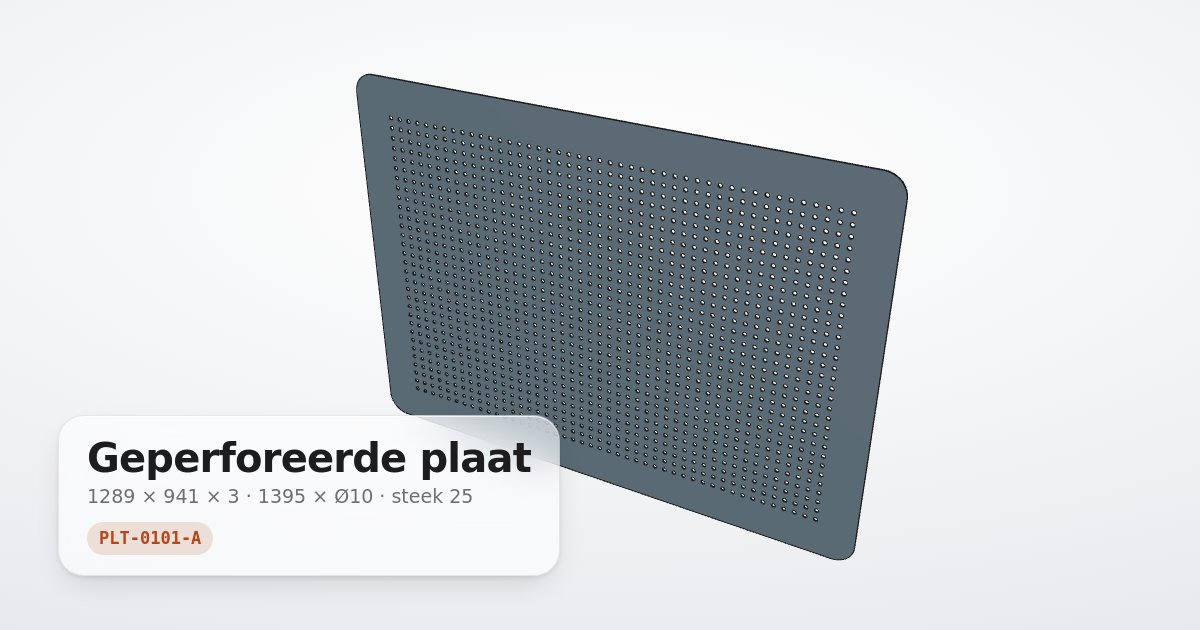
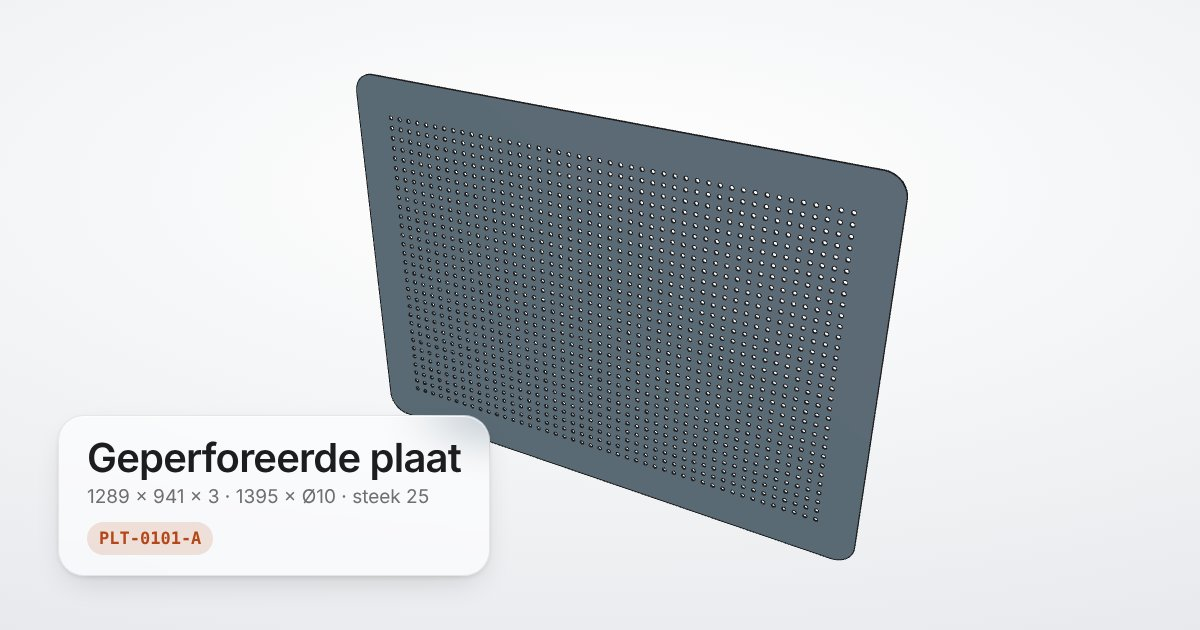
PLT-0101 revisie B (concept): gaten op steek 50
Om het andere gat van revisie A: 23 × 16 = 368 gaten Ø10, zelfde gatenveld
(1100 × 750 hart-hart) en randafstanden 94,5 / 95,5. Beschrijving in het
register algemener gemaakt zodat ze voor beide revisies klopt.

Claude-Session: https://claude.ai/code/session_01XXJD1Dkf3JZyJweGTUJbua

Changed region(s): [[0.0617, 0.6333, 0.4933, 0.8143], [0.4008, 0.9048, 0.4317, 0.9349]]

diff --git a/drawings/PLT-0101/B.html b/drawings/PLT-0101/B.html
@@ -1,0 +1,210 @@
+<!doctype html>
+<html lang="nl">
+<head>
+<meta charset="utf-8">
+<meta name="viewport" content="width=device-width,initial-scale=1,viewport-fit=cover">
+<title>Geperforeerde plaat</title>
+<!-- link-preview -->
+<meta name="description" content="Plaat 1289 × 941 × 3 met hoeken R50 en gaten Ø10 op een vierkant raster, uit Plaat_perforaties_OpenSoon.dxf. Dikte aangenomen. Revisie B van 2026-11-16.">
+<meta property="og:type" content="website">
+<meta property="og:site_name" content="Tekeningenregister">
+<meta property="og:title" content="Geperforeerde plaat · PLT-0101-B">
+<meta property="og:description" content="Plaat 1289 × 941 × 3 met hoeken R50 en gaten Ø10 op een vierkant raster, uit Plaat_perforaties_OpenSoon.dxf. Dikte aangenomen. Revisie B van 2026-11-16.">
+<meta property="og:url" content="https://africabambaata.github.io/prototypes/drawings/PLT-0101/B.html">
+<meta property="og:image" content="https://africabambaata.github.io/prototypes/previews/PLT-0101-B.jpg">
+<meta property="og:image:type" content="image/jpeg">
+<meta property="og:image:width" content="1200">
+<meta property="og:image:height" content="630">
+<meta property="og:image:alt" content="Geperforeerde plaat · PLT-0101-B">
+<meta name="twitter:card" content="summary_large_image">
+<!-- /link-preview -->
+<link rel="stylesheet" href="../../viewer/1/viewer.css">
+</head>
+<body>
+<script src="https://cdnjs.cloudflare.com/ajax/libs/three.js/r128/three.min.js"></script>
+<script src="../../viewer/1/viewer.js"></script>
+<script>
+// Geperforeerde plaat PLT-0101-B (mm), overgenomen uit Plaat_perforaties_OpenSoon.dxf.
+// DXF: buitencontour 1289 × 941 met hoekstraal R50 en 1395 gaten Ø10 (45 × 31) op een vierkant raster
+// met steek 25, symmetrisch in de plaat (randafstand 94,5 links/rechts, 95,5 onder/boven tot het gatmidden).
+// Revisie B: steek 50, dus om het andere gat van de DXF: 23 × 16 = 368 gaten, zelfde gatenveld en randafstanden.
+// De DXF is 2D: de dikte staat er niet in en is hier aangenomen.
+// Plaat in het XY-vlak (vooraanzicht = gatenpatroon), dikte langs Z, oorsprong in het midden.
+const P = { W: 1289, H: 941, R: 50, T: 3, d: 10, pitch: 50, nx: 23, ny: 16 };
+const A = P.W / 2, B = P.H / 2, t = P.T / 2, r = P.d / 2, h = P.pitch / 2;
+const FX = P.nx * h, FY = P.ny * h;                          // half-maten van het geperforeerde veld (cellen van 25 × 25)
+const cx = i => (i - (P.nx - 1) / 2) * P.pitch;              // gatmiddens
+const cy = j => (j - (P.ny - 1) / 2) * P.pitch;
+const X0 = cx(0), Y0 = cy(0);                                // gat linksonder
+const nHoles = P.nx * P.ny;
+const fmt = v => String(v).replace('.', ',');
+
+DrawingViewer.create({
+  lang: 'nl',
+  title: 'Geperforeerde plaat',
+  subtitle: `${P.W} × ${P.H} × ${P.T} · ${nHoles} × Ø${P.d} · steek ${P.pitch}`,
+  number: 'PLT-0101-B',
+  register: { url: '../../drawings.json', number: 'PLT-0101', rev: 'B' },
+  modes: ['solid', 'section', 'xray'],
+  views: [
+    { id: 'iso', theta: 0.5, phi: 1.05 },
+    { id: 'front', theta: 0, phi: Math.PI / 2 },
+    { id: 'top', theta: 0, phi: 0.0001 },
+    { id: 'right', theta: Math.PI / 2, phi: Math.PI / 2 },
+    { id: 'detail', label: 'Detail', tag: 'Detail hoek linksonder', theta: 0, phi: Math.PI / 2, radius: 450, target: [-580, -420, 0] }
+  ],
+  camera: { radius: 2500, target: [0, 0, 0], min: 25, max: 5000 },
+  titleBlock: [
+    { k: 'Titel', v: 'Geperforeerde plaat', title: true },
+    { k: 'Tekeningnr.', v: 'PLT-0101-B' },
+    { k: 'Afmetingen', v: `${P.W} × ${P.H} × ${P.T} · hoeken R${P.R}` },
+    { k: 'Perforatie', v: `${nHoles} × Ø${P.d} (${P.nx} × ${P.ny}) · vierkant raster, steek ${P.pitch} · ±${fmt((Math.PI * r * r / (P.pitch * P.pitch) * 100).toFixed(1))} % open` },
+    { k: 'Dikte', v: `${P.T} mm aangenomen: niet opgegeven in de DXF` },
+    { k: 'Materiaal', v: 'Niet opgegeven' },
+    { k: 'Eenheden · Schaal', v: 'mm · 1:10', units: 'mm', scale: true },
+    { k: 'Bron', v: 'Plaat_perforaties_OpenSoon.dxf' },
+    { k: 'Projectie', v: 'Eerste hoek', projection: true },
+    { k: 'Getekend · Blad', v: '2026-11-16 · 1/1' }
+  ],
+  build(m) {
+    const { THREE, V } = m;
+    m.part(plate(THREE), { edges: 25 });
+
+    // Halve doorsnede op x = 0, door een kolom gaten: de stegen tussen de gaten gearceerd.
+    const hatch = [];
+    const ys = [-B];
+    for (let j = 0; j < P.ny; j++) ys.push(cy(j) - r, cy(j) + r);
+    ys.push(B);
+    for (let k = 0; k < ys.length; k += 2) hatch.push(...m.hatchYZ(0, ys[k], ys[k + 1], -t, t, 1.2));
+    m.section({ plane: new THREE.Plane(V(-1, 0, 0), 0), hatch });
+
+    const z = t + 0.2, c45 = Math.SQRT1_2;
+    // Overzicht: buitenmaten, hart-hart van het gatenveld en de hoekstraal.
+    const all = m.dims({ arrow: 22, minRadius: 900 });
+    all.linear({ a: V(-A, -B - 90, z), b: V(A, -B - 90, z), text: String(P.W),
+      ext: [[V(-A, -B + P.R, z), V(-A, -B - 105, z)], [V(A, -B + P.R, z), V(A, -B - 105, z)]] });
+    all.linear({ a: V(-A - 90, -B, z), b: V(-A - 90, B, z), text: String(P.H),
+      ext: [[V(-A + P.R, -B, z), V(-A - 105, -B, z)], [V(-A + P.R, B, z), V(-A - 105, B, z)]] });
+    all.linear({ a: V(X0, B + 70, z), b: V(-X0, B + 70, z), text: `${-2 * X0} (${P.nx - 1} × ${P.pitch})`,
+      ext: [[V(X0, -Y0 + r, z), V(X0, B + 85, z)], [V(-X0, -Y0 + r, z), V(-X0, B + 85, z)]] });
+    all.linear({ a: V(A + 70, Y0, z), b: V(A + 70, -Y0, z), text: `${-2 * Y0} (${P.ny - 1} × ${P.pitch})`,
+      ext: [[V(-X0 + r, Y0, z), V(A + 85, Y0, z)], [V(-X0 + r, -Y0, z), V(A + 85, -Y0, z)]] });
+    const ca = V(A - P.R, B - P.R, z);
+    all.leader({ p: ca.clone().add(V(P.R * c45, P.R * c45, 0)), e: ca.clone().add(V(P.R * c45 + 150, P.R * c45 + 40, 0)), arrow: 18, text: `R${P.R} (4×)` });
+    all.note({ pos: V(0, -B - 190, z), text: `${nHoles} × Ø${P.d} · steek ${P.pitch}` });
+
+    // Detail (ingezoomd, hoek linksonder): randafstanden, steek, gatdiameter en dikte.
+    const det = m.dims({ arrow: 3, maxRadius: 900 });
+    const yd = -B - 22, xd = -A - 22;
+    det.linear({ a: V(-A, yd, z), b: V(X0, yd, z), text: fmt(X0 + A),
+      ext: [[V(-A, -B + P.R, z), V(-A, yd - 4, z)], [V(X0, Y0 - r, z), V(X0, yd - 4, z)]] });
+    det.linear({ a: V(X0, yd, z), b: V(X0 + P.pitch, yd, z), text: String(P.pitch),
+      ext: [[V(X0 + P.pitch, Y0 - r, z), V(X0 + P.pitch, yd - 4, z)]] });
+    det.linear({ a: V(xd, -B, z), b: V(xd, Y0, z), text: fmt(Y0 + B),
+      ext: [[V(-A + P.R, -B, z), V(xd - 4, -B, z)], [V(X0 - r, Y0, z), V(xd - 4, Y0, z)]] });
+    det.linear({ a: V(xd, Y0, z), b: V(xd, Y0 + P.pitch, z), text: String(P.pitch),
+      ext: [[V(X0 - r, Y0 + P.pitch, z), V(xd - 4, Y0 + P.pitch, z)]] });
+    const hx = X0 + 2 * P.pitch;
+    det.leader({ p: V(hx + r * c45, Y0 - r * c45, z), e: V(hx + 30, Y0 - 45, z), text: `Ø${P.d} (${nHoles}×)` });
+    const yt = Y0 + 4 * P.pitch + h;                         // tussen twee gatenrijen, op de linkerrand
+    det.linear({ a: V(-A - 12, yt, -t), b: V(-A - 12, yt, t), n: V(0, 1, 0), text: String(P.T),
+      ext: [[V(-A, yt, -t), V(-A - 15, yt, -t)], [V(-A, yt, t), V(-A - 15, yt, t)]] });
+    // Hartlijnen door de eerste rij en kolom gaten.
+    det.segments([V(X0, Y0 - 9, z), V(X0, Y0 + 9, z), V(X0 - 9, Y0, z), V(X0 + 9, Y0, z),
+      V(X0 + P.pitch, Y0 - 9, z), V(X0 + P.pitch, Y0 + 9, z), V(X0 - 9, Y0 + P.pitch, z), V(X0 + 9, Y0 + P.pitch, z)]);
+  }
+});
+
+// De plaat als één BufferGeometry, zonder driehoeksberekening met 1395 gaten in één vorm (te traag):
+// - het gatenveld bestaat uit cellen van 25 × 25, elk een vierkant met een rond gat (24 segmenten). Het vierkant
+//   heeft punten op dezelfde hoeken als de cirkel, dus elk stukje tussen gat en rand is een vlakke vierhoek;
+// - de rand rond het veld (82 à 83 mm) sluit punt voor punt aan op de cellen (geen T-knopen, dus geen losse
+//   randlijnen), met een waaier naar elke afgeronde hoek;
+// - daarbij de buitenwand en de gatwanden.
+function plate(THREE) {
+  const SEG = 24, ARC = 12;
+  const pos = [], nor = [];
+  const snap = v => Math.round(v * 1e9) / 1e9;
+  const put = (x, y, zz, nx, ny, nz) => { pos.push(x, y, zz); nor.push(nx, ny, nz); };
+  // Vlakke driehoek (a, b, c tegen de klok in van boven gezien) op boven- en ondervlak.
+  const faceTri = (a, b, c) => {
+    put(a[0], a[1], t, 0, 0, 1); put(b[0], b[1], t, 0, 0, 1); put(c[0], c[1], t, 0, 0, 1);
+    put(a[0], a[1], -t, 0, 0, -1); put(c[0], c[1], -t, 0, 0, -1); put(b[0], b[1], -t, 0, 0, -1);
+  };
+  const faceQuad = (a, b, c, d) => { faceTri(a, b, c); faceTri(a, c, d); };
+
+  const dir = [], sq = [];
+  for (let k = 0; k <= SEG; k++) {
+    const a = k / SEG * Math.PI * 2, c = Math.cos(a), s = Math.sin(a), q = Math.max(Math.abs(c), Math.abs(s));
+    dir.push([c, s]); sq.push([snap(c / q), snap(s / q)]);
+  }
+  for (let i = 0; i < P.nx; i++) for (let j = 0; j < P.ny; j++) {
+    const x = cx(i), y = cy(j);
+    for (let k = 0; k < SEG; k++) {
+      const i0 = [x + r * dir[k][0], y + r * dir[k][1]], i1 = [x + r * dir[k + 1][0], y + r * dir[k + 1][1]];
+      const o0 = [x + h * sq[k][0], y + h * sq[k][1]], o1 = [x + h * sq[k + 1][0], y + h * sq[k + 1][1]];
+      faceQuad(i0, o0, o1, i1);
+      // Gatwand, normaal naar het gatmidden
+      const [c0, s0] = dir[k], [c1, s1] = dir[k + 1];
+      put(i0[0], i0[1], -t, -c0, -s0, 0); put(i0[0], i0[1], t, -c0, -s0, 0); put(i1[0], i1[1], t, -c1, -s1, 0);
+      put(i0[0], i0[1], -t, -c0, -s0, 0); put(i1[0], i1[1], t, -c1, -s1, 0); put(i1[0], i1[1], -t, -c1, -s1, 0);
+    }
+  }
+
+  // Punten van het veld langs de rand: dezelfde waarden als in de cellen.
+  const uniq = vals => [...new Map(vals.map(v => [v.toFixed(6), v])).values()].sort((p, q) => p - q);
+  const side = [];
+  for (let k = 0; k <= SEG; k++) if (Math.abs(sq[k][1] + 1) < 1e-9) side.push(sq[k][0]);  // onderkant van een cel
+  const XS = uniq([].concat(...Array.from({ length: P.nx }, (_, i) => side.map(o => cx(i) + h * o))));
+  const YS = uniq([].concat(...Array.from({ length: P.ny }, (_, j) => side.map(o => cy(j) + h * o))));
+
+  // Afgeronde hoek: keten van buitenpunten van de projectie op de onder-/bovenrand tot die op de zijrand,
+  // tegen de klok in rond de plaat, plus de waaier vanuit de veldhoek.
+  const corner = (sx, sy) => {
+    const ch = [[sx * FX, sy * B], [sx * (A - P.R), sy * B]];
+    const a0 = sy < 0 ? -Math.PI / 2 : Math.PI / 2, a1 = sx > 0 ? 0 : Math.PI;
+    const d = Math.atan2(Math.sin(a1 - a0), Math.cos(a1 - a0));
+    for (let k = 1; k < ARC; k++) {
+      const a = a0 + d * k / ARC;
+      ch.push([sx * (A - P.R) + P.R * Math.cos(a), sy * (B - P.R) + P.R * Math.sin(a)]);
+    }
+    ch.push([sx * A, sy * (B - P.R)], [sx * A, sy * FY]);
+    const p = [sx * FX, sy * FY], f = ch[0], l = ch[ch.length - 1];
+    if ((f[0] - p[0]) * (l[1] - p[1]) - (f[1] - p[1]) * (l[0] - p[0]) < 0) ch.reverse();
+    for (let k = 0; k + 1 < ch.length; k++) faceTri(p, ch[k], ch[k + 1]);
+    return ch;
+  };
+  for (let m = 0; m + 1 < XS.length; m++) {
+    const x0 = XS[m], x1 = XS[m + 1];
+    faceQuad([x0, -B], [x1, -B], [x1, -FY], [x0, -FY]);
+    faceQuad([x1, B], [x0, B], [x0, FY], [x1, FY]);
+  }
+  for (let m = 0; m + 1 < YS.length; m++) {
+    const y0 = YS[m], y1 = YS[m + 1];
+    faceQuad([A, y0], [A, y1], [FX, y1], [FX, y0]);
+    faceQuad([-A, y1], [-A, y0], [-FX, y0], [-FX, y1]);
+  }
+  const BR = corner(1, -1), TR = corner(1, 1), TL = corner(-1, 1), BL = corner(-1, -1);
+
+  // Buitencontour tegen de klok in, met precies dezelfde punten als het bovenvlak, en de buitenwand.
+  const loop = [
+    ...XS.map(x => [x, -B]), ...BR.slice(1, -1),
+    ...YS.map(y => [A, y]), ...TR.slice(1, -1),
+    ...XS.slice().reverse().map(x => [x, B]), ...TL.slice(1, -1),
+    ...YS.slice().reverse().map(y => [-A, y]), ...BL.slice(1, -1)
+  ];
+  for (let k = 0; k < loop.length; k++) {
+    const a = loop[k], b = loop[(k + 1) % loop.length];
+    const dx = b[0] - a[0], dy = b[1] - a[1], L = Math.hypot(dx, dy), nx = dy / L, ny = -dx / L;
+    put(a[0], a[1], -t, nx, ny, 0); put(b[0], b[1], -t, nx, ny, 0); put(b[0], b[1], t, nx, ny, 0);
+    put(a[0], a[1], -t, nx, ny, 0); put(b[0], b[1], t, nx, ny, 0); put(a[0], a[1], t, nx, ny, 0);
+  }
+
+  const g = new THREE.BufferGeometry();
+  g.setAttribute('position', new THREE.Float32BufferAttribute(pos, 3));
+  g.setAttribute('normal', new THREE.Float32BufferAttribute(nor, 3));
+  return g;
+}
+</script>
+</body>
+</html>

diff --git a/drawings/PLT-0101/index.html b/drawings/PLT-0101/index.html
@@ -4,11 +4,11 @@
 <meta charset="utf-8">
 <meta name="viewport" content="width=device-width,initial-scale=1">
 <title>Geperforeerde plaat (PLT-0101-A)</title>
-<meta name="description" content="Plaat 1289 × 941 × 3 met hoeken R50 en 1395 gaten Ø10 (45 × 31) op een vierkant raster met steek 25, uit Plaat_perforaties_OpenSoon.dxf. Dikte aangenomen. Altijd de laatste revisie (nu A).">
+<meta name="description" content="Plaat 1289 × 941 × 3 met hoeken R50 en gaten Ø10 op een vierkant raster, uit Plaat_perforaties_OpenSoon.dxf. Dikte aangenomen. Altijd de laatste revisie (nu A).">
 <meta property="og:type" content="website">
 <meta property="og:site_name" content="Tekeningenregister">
 <meta property="og:title" content="Geperforeerde plaat · PLT-0101">
-<meta property="og:description" content="Plaat 1289 × 941 × 3 met hoeken R50 en 1395 gaten Ø10 (45 × 31) op een vierkant raster met steek 25, uit Plaat_perforaties_OpenSoon.dxf. Dikte aangenomen. Altijd de laatste revisie (nu A).">
+<meta property="og:description" content="Plaat 1289 × 941 × 3 met hoeken R50 en gaten Ø10 op een vierkant raster, uit Plaat_perforaties_OpenSoon.dxf. Dikte aangenomen. Altijd de laatste revisie (nu A).">
 <meta property="og:url" content="https://africabambaata.github.io/prototypes/drawings/PLT-0101/">
 <meta property="og:image" content="https://africabambaata.github.io/prototypes/previews/PLT-0101-A.jpg">
 <meta property="og:image:type" content="image/jpeg">

diff --git a/drawings/PLT-0101/A.html b/drawings/PLT-0101/A.html
@@ -5,11 +5,11 @@
 <meta name="viewport" content="width=device-width,initial-scale=1,viewport-fit=cover">
 <title>Geperforeerde plaat</title>
 <!-- link-preview -->
-<meta name="description" content="Plaat 1289 × 941 × 3 met hoeken R50 en 1395 gaten Ø10 (45 × 31) op een vierkant raster met steek 25, uit Plaat_perforaties_OpenSoon.dxf. Dikte aangenomen. Revisie A van 2026-11-16.">
+<meta name="description" content="Plaat 1289 × 941 × 3 met hoeken R50 en gaten Ø10 op een vierkant raster, uit Plaat_perforaties_OpenSoon.dxf. Dikte aangenomen. Revisie A van 2026-11-16.">
 <meta property="og:type" content="website">
 <meta property="og:site_name" content="Tekeningenregister">
 <meta property="og:title" content="Geperforeerde plaat · PLT-0101-A">
-<meta property="og:description" content="Plaat 1289 × 941 × 3 met hoeken R50 en 1395 gaten Ø10 (45 × 31) op een vierkant raster met steek 25, uit Plaat_perforaties_OpenSoon.dxf. Dikte aangenomen. Revisie A van 2026-11-16.">
+<meta property="og:description" content="Plaat 1289 × 941 × 3 met hoeken R50 en gaten Ø10 op een vierkant raster, uit Plaat_perforaties_OpenSoon.dxf. Dikte aangenomen. Revisie A van 2026-11-16.">
 <meta property="og:url" content="https://africabambaata.github.io/prototypes/drawings/PLT-0101/A.html">
 <meta property="og:image" content="https://africabambaata.github.io/prototypes/previews/PLT-0101-A.jpg">
 <meta property="og:image:type" content="image/jpeg">
